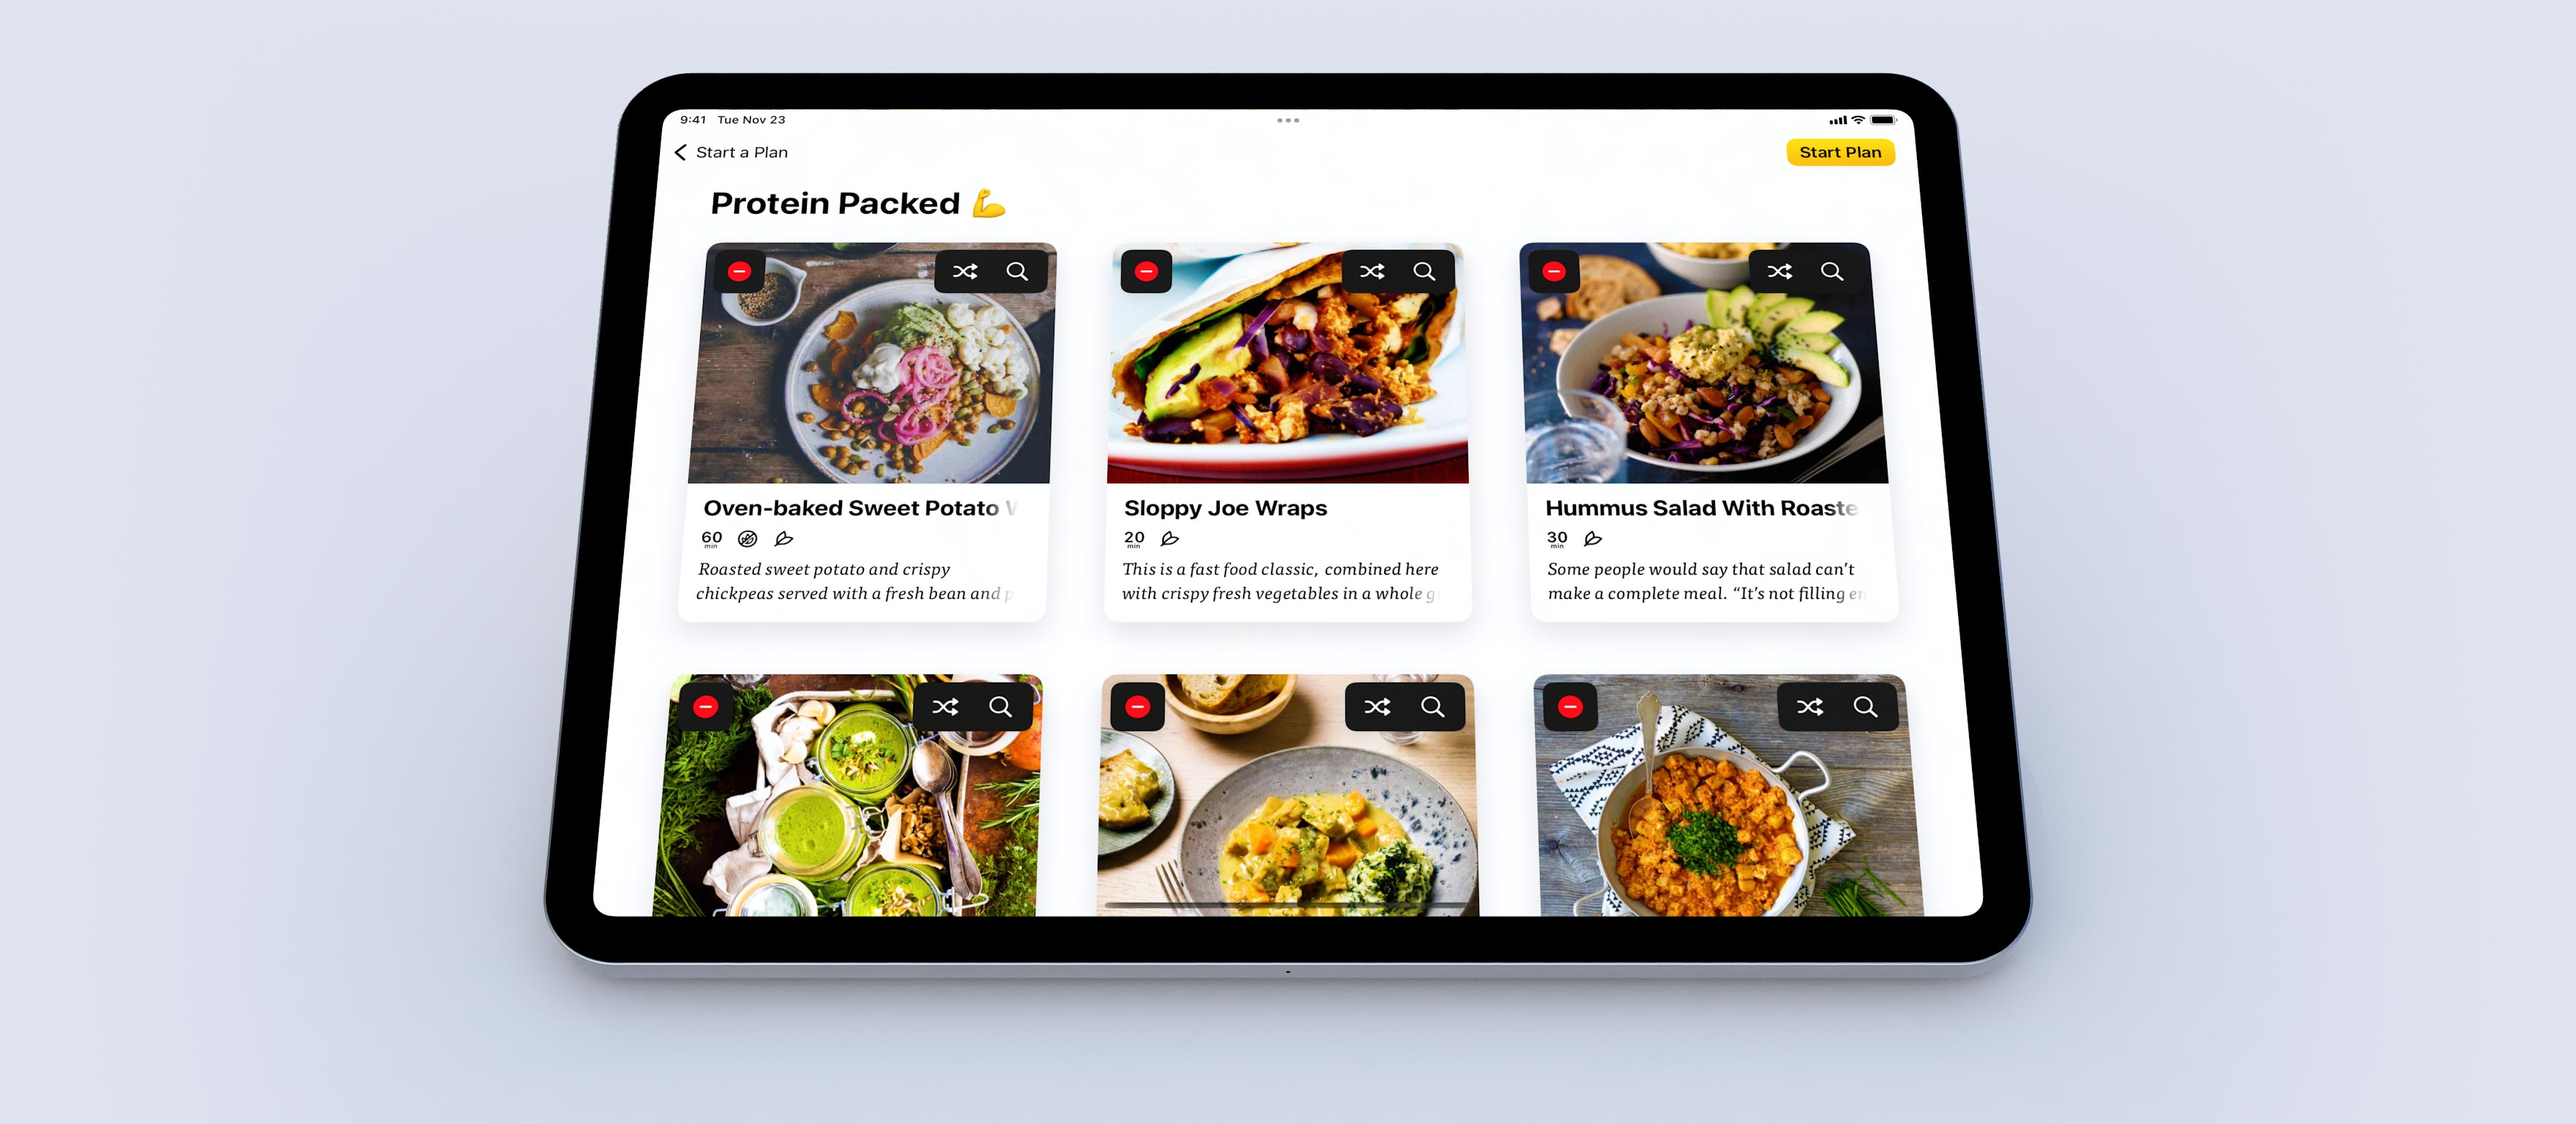
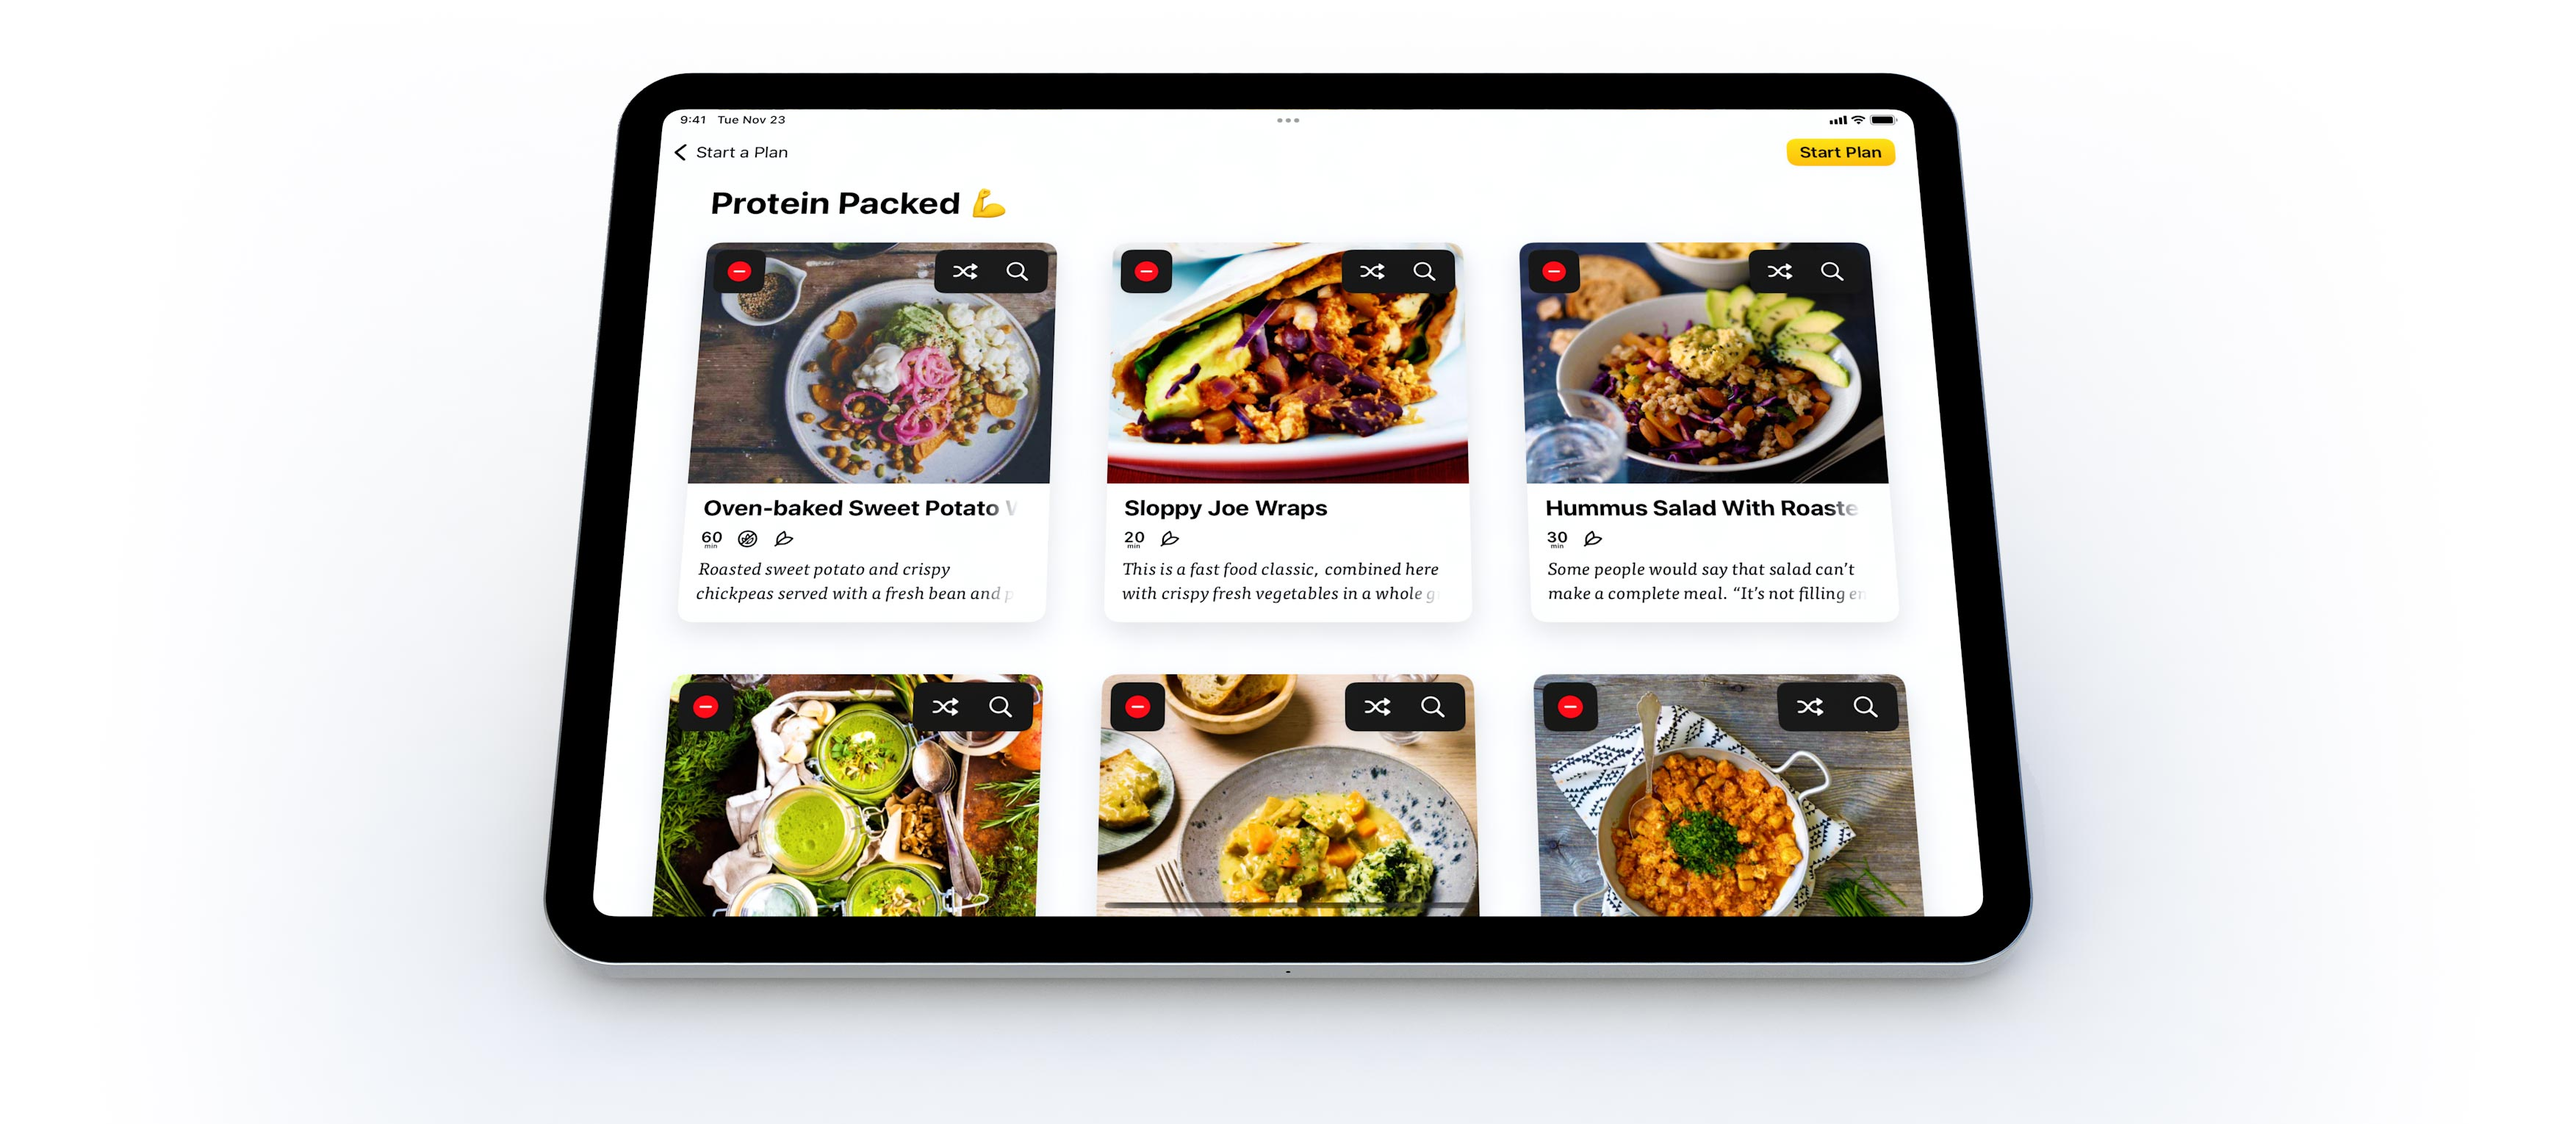
More white, straight divider for header

diff --git a/index.html b/index.html
@@ -248,13 +248,7 @@
 
     
     <footer>  
-        <svg class="bend" width="1440px" height="51px" viewBox="0 0 1440 51" version="1.1" xmlns="http://www.w3.org/2000/svg" xmlns:xlink="http://www.w3.org/1999/xlink">
-            <g id="Page-1" stroke="none" stroke-width="1" fill="none" fill-rule="evenodd">
-                <g id="Artboard" transform="translate(0.000000, -2.000000)" fill="#dee3f0">
-                    <path d="M1440,4 C1200.33169,36.6666667 960.331692,53 720,53 C479.668308,53 239.668308,36.6666667 0,4 L0,2 L1440,2 L1440,4 Z" id="Combined-Shape"></path>
-                </g>
-            </g>
-        </svg>    
+<img class="bend-top invertInDarkMode" src="gfx/bend-top.svg" width="100%" height="auto">  
       <img src="gfx/bowl-spin.gif" width="216" height="158" alt="Plantry">
       
       <div class="social-footer">

diff --git a/styles.css b/styles.css
@@ -172,7 +172,7 @@ html {
 body {
   margin: 0;
   padding: 0;
-  background-color: color(display-p3 0.875 0.89 0.937 / 1)
+  background-color: #fff;
 }
 
 section {
@@ -198,7 +198,7 @@ header {
 }
 
 .hero {
-  background: url(gfx/veggies@2x.jpg), linear-gradient(to bottom, color(display-p3 1 0.784 0 / 1) 0%, color(display-p3 1 0.855 0.33 / 1) 70%, color(display-p3 0.875 0.89 0.937 / 1) 98%);
+  background: url(gfx/veggies@2x.jpg), linear-gradient(to bottom, color(display-p3 1 0.87 0 / 1) 0%, color(display-p3 0.98 0.72 0 / 1) 100%);
   background-position: center center;
   background-repeat: no-repeat;
   background-blend-mode: multiply;
@@ -463,7 +463,7 @@ section {
 }
 
 footer {
-  background-color: #FFF;
+  background-color: #FFC800;
   display: flex;
   flex-direction: column;
   align-items: center;
